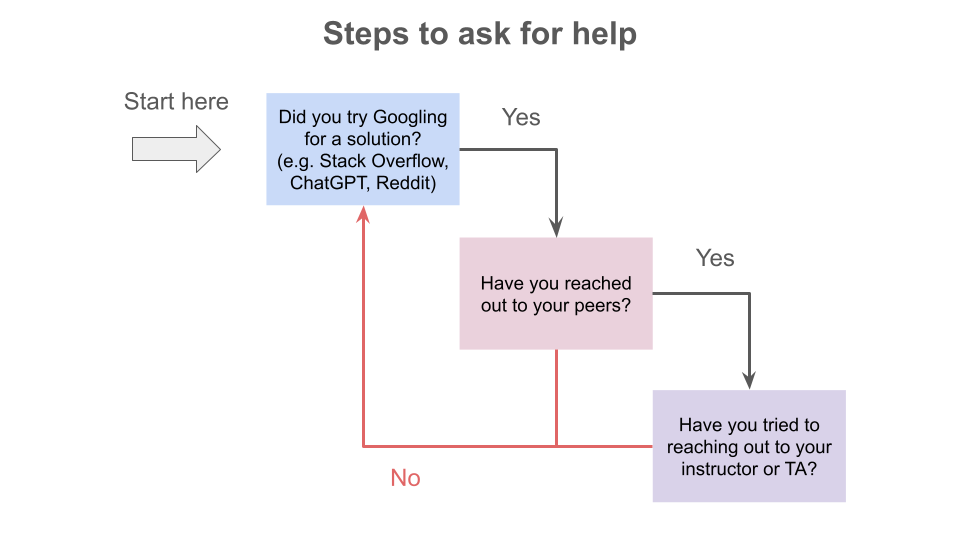
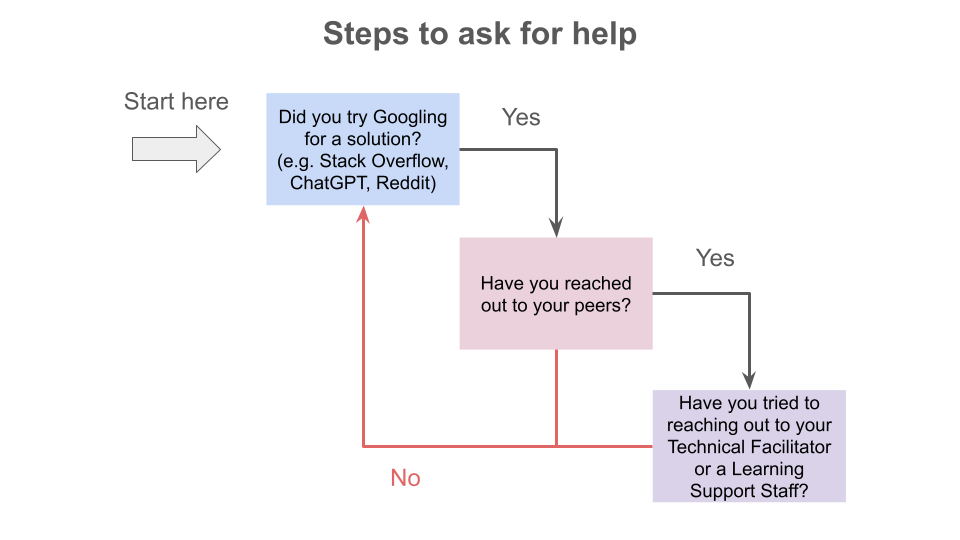
Updating the descriptions

Changed region(s): [[0.6875, 0.7407, 0.875, 0.9185]]

diff --git a/team-project-1.md b/team-project-1.md
@@ -37,7 +37,7 @@ Skills used:
 ## Learning Outcomes
 
 * Identify the causes of merge conflicts
-* Solve merge conflicts through the use of rebasing
+* Use rebasing to solve merge conflicts
 * Create a program as a team to analyze a dataset
 
 ## Instructions
@@ -74,7 +74,7 @@ Skills used:
 
 ### Will we be doing everything by ourselves?
 
-Yes! This team project will be done all by you and your team. The instructor will be present however to help when needed, and to check in on your progress of work.
+Yes! This team project will be done all by you and your team. The Technical Facilitator will be present however to help when needed, and to check in on your progress of work.
 
 ### Why are the teams assigned rather than us choosing who to work with?
 
@@ -95,13 +95,13 @@ If someone is taking too slow to respond, try the following:
 
 1. DM them on Slack
 2. Email them
-3. Reach out to the Instructor and let them know of the issues
+3. Reach out to the Technical Facilitator and let them know of the issues
 
 ### Are we supposed to work on the same hours if lectures and office hours were held?
 
 Ideally yes!
 
-### Will the Instructor be checking our work throughout the week?
+### Will the Technical Facilitator be checking our work throughout the week?
 
 Yes! They will be periodically checking your team's work for progress.
 

diff --git a/team-project-2.md b/team-project-2.md
@@ -14,7 +14,7 @@ Skills used:
 * Git
 * Python
 * SQL
-* Estimation, Machine Learning and Testing
+* Applying Statistical Concepts
 * Production
 * Visualization (Data Science Specialization only)
 * Sampling (Data Science Specialization only)
@@ -76,16 +76,16 @@ If someone is taking too slow to respond, try the following:
 
 1.  DM them on Slack
 2.  Email them
-3.  Reach out to the Instructor and let them know of the issues
+3.  Reach out to the Technical Facilitator and let them know of the issues
 
 ### Will we be doing everything by ourselves again?
 
-Yes! This team project will be done all by you and your team. The instructor will be present however to help when needed, and to check in on your progress of work.
+Yes! This team project will be done all by you and your team. The Technical Facilitator will be present however to help when needed, and to check in on your progress of work.
 
 ### Are we supposed to work on the same hours if lectures and office hours were held?
 
 Ideally yes!
 
-### Will the Instructor be checking our work throughout the week?
+### Will the Technical Facilitator be checking our work throughout the week?
 
 Yes! They will be periodically checking your team's work for progress.
